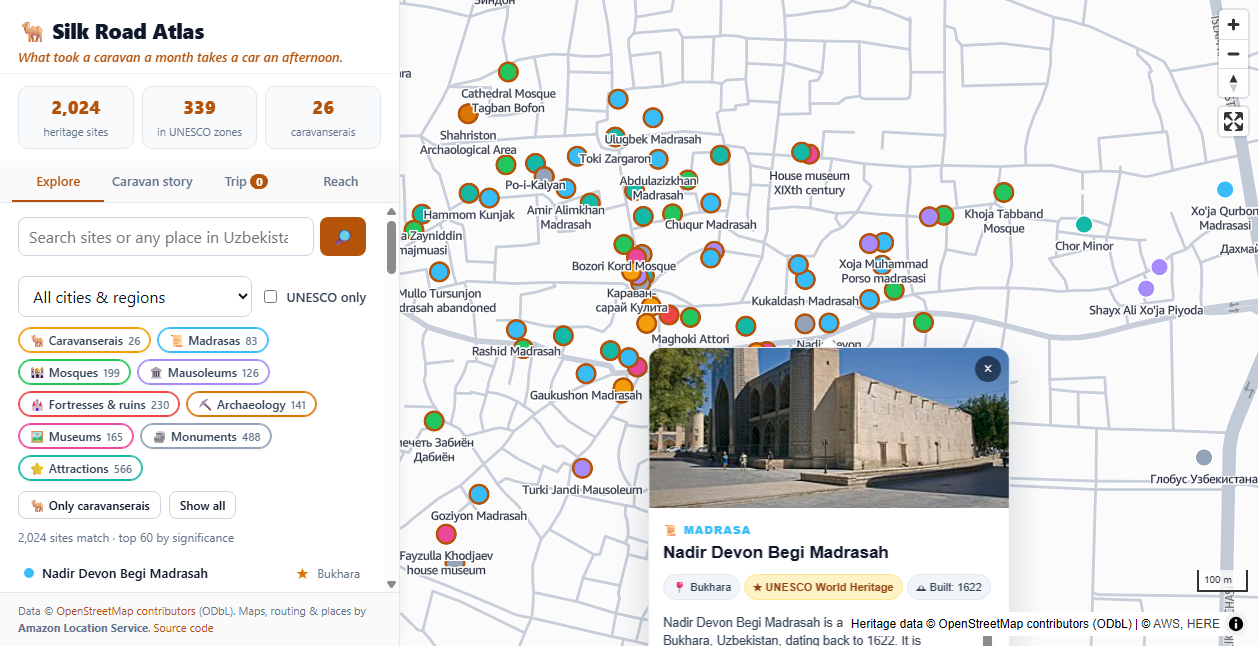
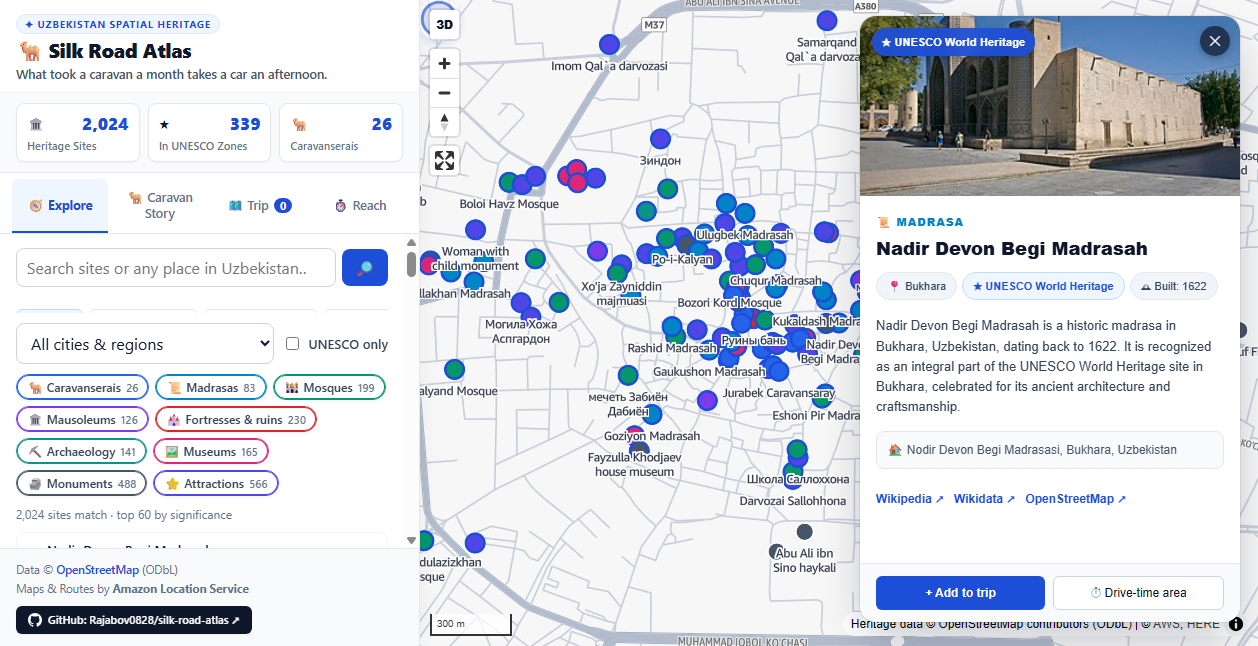
docs: add hero screenshot to README

diff --git a/README.md b/README.md
@@ -4,6 +4,8 @@
 > **AWS Location Services Hackathon Project**  
 > *"What took a Silk Road camel caravan a month takes a modern car an afternoon."*
 
+![Silk Road Atlas: Interactive Spatial Heritage & Journey Explorer](live_popup_screenshot.png)
+
 Silk Road Atlas puts **2,024 historical and cultural heritage sites** across Uzbekistan on an interactive, explorable map powered by **Amazon Location Service**, **AWS Lambda**, **Amazon CloudFront**, and **Amazon S3**.
 
 ---
